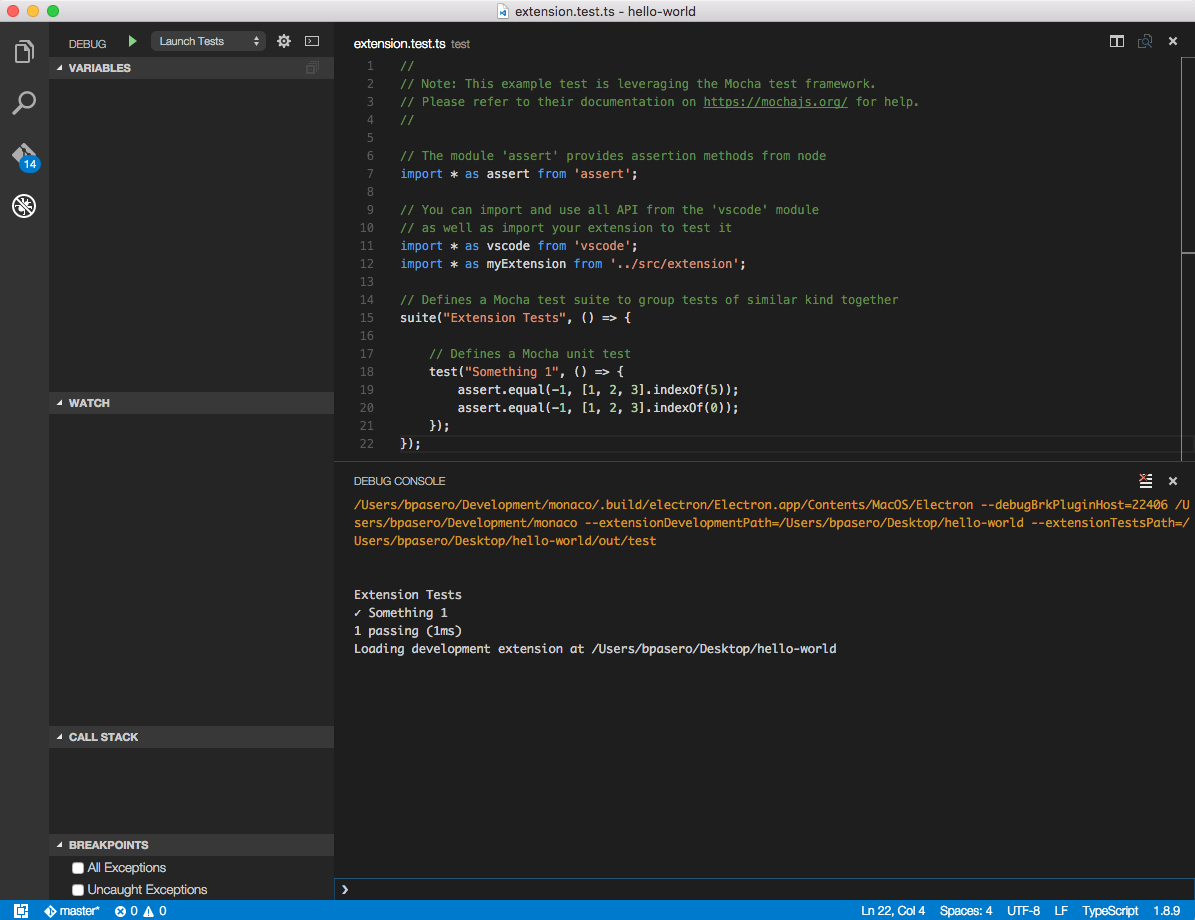
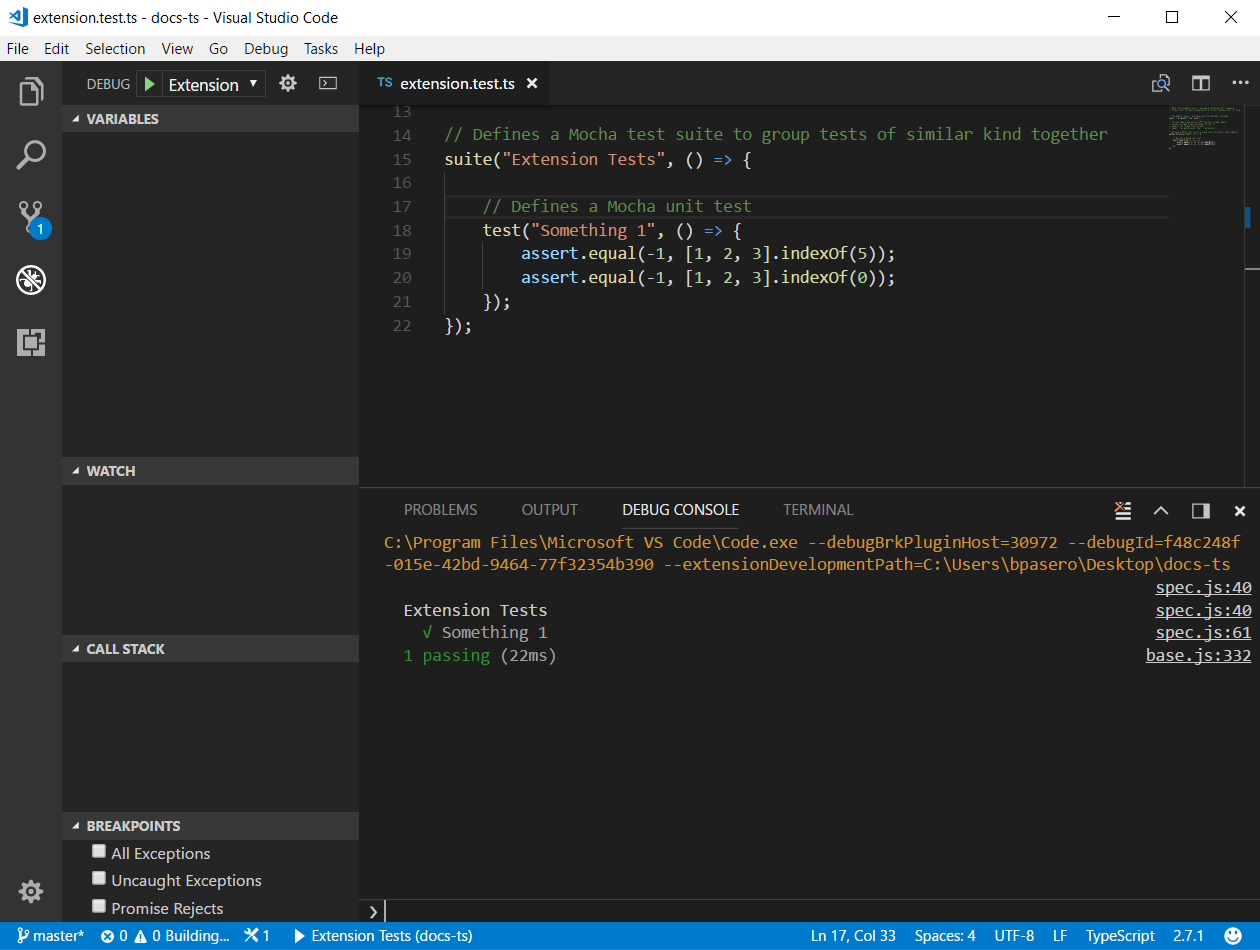
dockathon: update "Extension Testing"

diff --git a/docs/extensions/testing-extensions.md b/docs/extensions/testing-extensions.md
@@ -17,7 +17,7 @@ The basic [yo code generator](/docs/extensions/yocode.md) extension project incl
 
 **Note**: The documentation below assumes that you created a TypeScript extension but the same also applies for a JavaScript extension. However, some file names may be different.
 
-After you've created a new extension and opened the project in VS Code, you can select the `Launch Tests` configuration from the dropdown at the top of the Debug View.
+After you've created a new extension and opened the project in VS Code, you can select the `Extension Tests` configuration from the dropdown at the top of the Debug View.
 
 ![launch tests](images/testing-extensions/launch-tests.png)
 
@@ -27,31 +27,34 @@ With this configuration chosen, when you run `Debug: Start` (`kb(workbench.actio
 
 The generated test uses the [Mocha test framework](https://mochajs.org/) for its test runner and library.
 
-The extension project comes with a `test` folder that includes an `index.ts` file which defines the Mocha test runner configuration and an `extension.test.ts` which has the example `Something 1` test. You can typically leave `index.ts` untouched, but you can modify it to adjust the configuration of Mocha.
+The extension project comes with a `src/test` folder that includes an `index.ts` file which defines the Mocha test runner configuration and an `extension.test.ts` which has the example `Something 1` test. You can typically leave `index.ts` untouched, but you can modify it to adjust the configuration of Mocha.
 
 ```
-├── test
-│   ├── extension.test.ts
-│   └── index.ts
+├── src
+│   └── test
+│       ├── extension.test.ts
+│       └── index.ts
 ```
 
 You can create more `test.ts` files under the `test` folder and they will automatically be built (to `out/test`) and run. The test runner will only consider files matching the name pattern `*.test.ts`.
 
 ## Launch Tests configuration
 
-The `Launch Tests` configuration is defined in the project's `.vscode\launch.json` file.  It is similar the `Launch Extension` configuration with the addition of the `--extensionTestsPath` argument which points to the compiled test files (assuming this is a TypeScript project).
+The `Extension Tests` configuration is defined in the project's `.vscode\launch.json` file.  It is similar the `Extension` configuration with the addition of the `--extensionTestsPath` argument which points to the compiled test files (assuming this is a TypeScript project).
 
 ```json
 {
-    "name": "Launch Tests",
+    "name": "Extension Tests",
     "type": "extensionHost",
     "request": "launch",
     "runtimeExecutable": "${execPath}",
-    "args": ["--extensionDevelopmentPath=${workspaceFolder}", "--extensionTestsPath=${workspaceFolder}/out/test" ],
-    "stopOnEntry": false,
-    "sourceMaps": true,
-    "outFiles": ["${workspaceFolder}/out/test/**/*.js"],
-    "preLaunchTask": "npm"
+    "args": [
+        "--extensionDevelopmentPath=${workspaceFolder}",
+        "--extensionTestsPath=${workspaceFolder}/out/test"
+    ],
+    "outFiles": [
+        "${workspaceFolder}/out/test/**/*.js"
+    ]
 }
 ```
 
@@ -60,7 +63,11 @@ The `Launch Tests` configuration is defined in the project's `.vscode\launch.jso
 You can set the file or folder that the test instance should open by inserting the path at the front of the argument list for the launch configuration.
 
 ```json
-"args": ["file or folder name", "--extensionDevelopmentPath=${workspaceFolder}", "--extensionTestsPath=${workspaceFolder}/out/test" ],
+"args": [
+    "file or folder name",
+    "--extensionDevelopmentPath=${workspaceFolder}",
+    "--extensionTestsPath=${workspaceFolder}/out/test"
+]
 ```
 
 This way you can run your tests with predictable content and folder structure.
@@ -71,7 +78,6 @@ If you decide to share your extension, you may not want to include the tests in 
 
 ```
 out/test/**
-test/**
 ```
 
 ## Running tests automatically on Travis CI build machines
